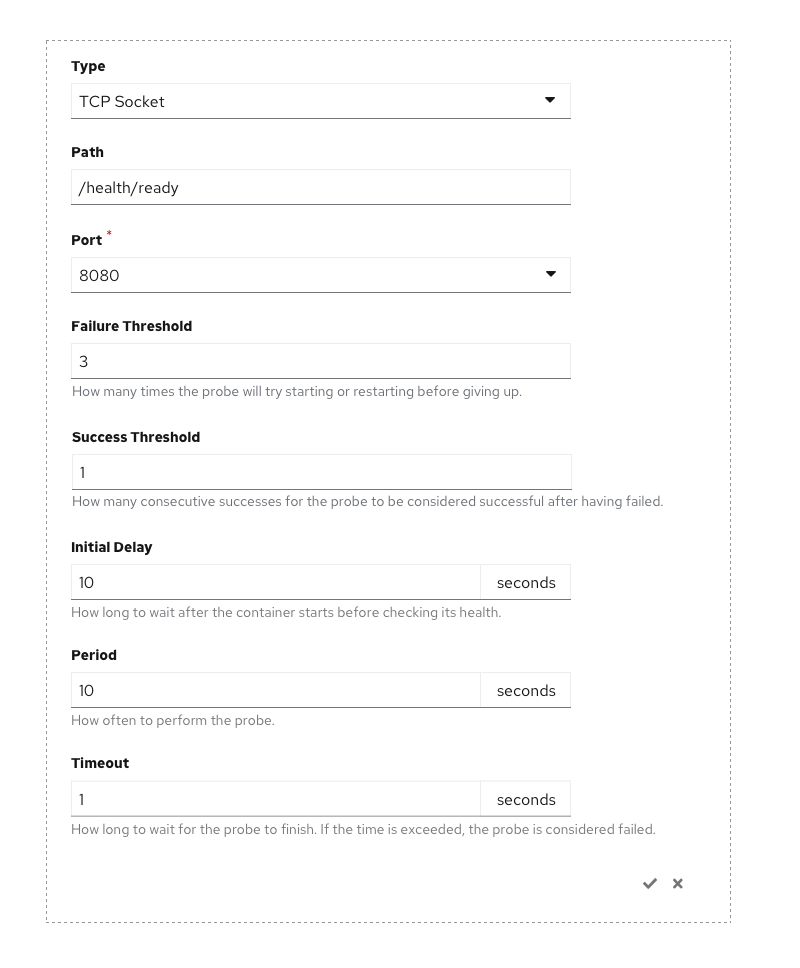
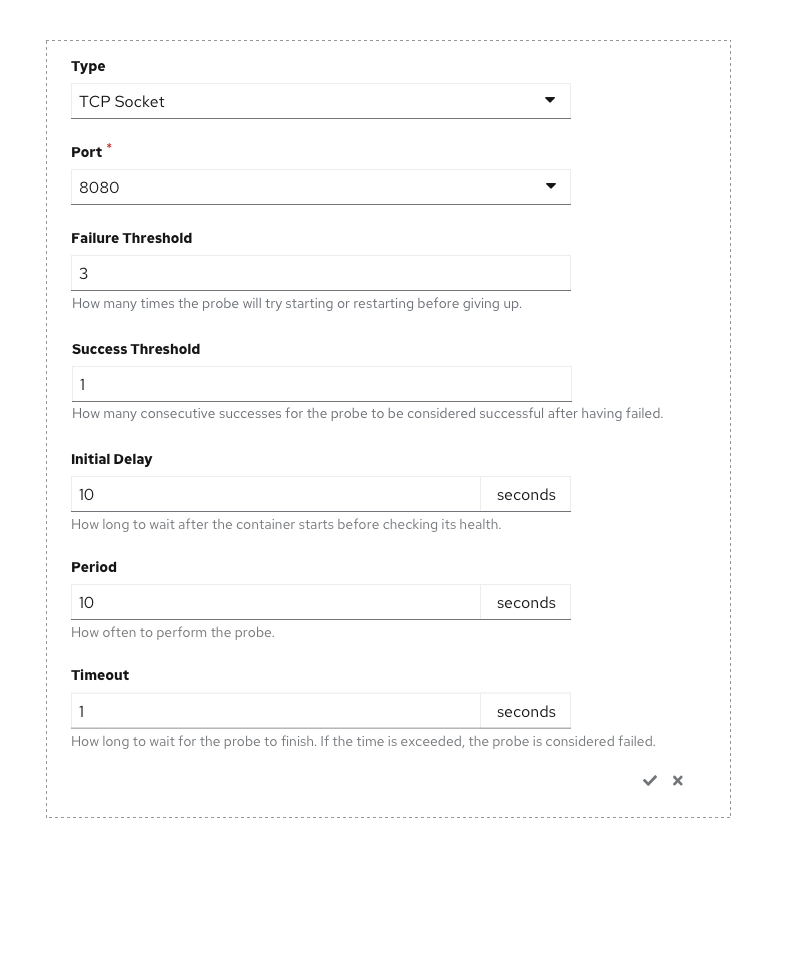
Clarifications in documentation to interaction design for form.

diff --git a/designs/developer/add-45/sections/Adv-Health_Checks.md b/designs/developer/add-45/sections/Adv-Health_Checks.md
@@ -5,67 +5,65 @@ version: 4.5
 
 # Add Flows - Advanced Options - Health Checks
 
-Health Checks is a link within the Advanced Options section for the Import from Git and Deploy Image +Add flows. The Health Checks link goes after the Routing link and before the Build Configuration link in the list of Advanced Options links.
+The ability to add Health Checks is within the Advanced Options section of the Import from Git and Deploy Image Add flows. A Health Checks link appears after the Routing link and before the Build Configuration link in the list of Advanced Options links.
 
 ![Health Checks link](img/Select_Health_Checks.png)
 
-
-When a user clicks on the Health Checks link, the Health Checks section is expanded within the Advanced Options section.
+When a user clicks on the Health Checks link, a Health Checks sub-section is expanded within the Advanced Options section.
 
 ![Health Checks link clicked](img/Select_Health_Checks_2.png)
 
 
-When the Health Checks section is expanded there are 3 probes listed (Readiness, Liveness, and Startup). Each probe type has a + Add \[probe name\] link.
+When the Health Checks sub-section is expanded, there are 3 probes listed (Readiness, Liveness, and Startup). Each probe has a \"Add \<probe name\> Probe\" link which allows the user to create the probe for that type.
 
 ![Health Checks options](img/Select_Add_Probe.png)
 
-When a + Add [probe name] link is clicked, the probe form expands exposing all of the fields associated with the probe.  The user can confirm or cancel the adding of the Health Check using the check or x.  There are 3 variations on the Health Checks form which are based on the Type that is selected. The default probe type is HTTP GET. See the Health Checks In-Line form section below for these variations.
+When the \"Add \<probe name\> Probe" link is clicked, a probe form becomes visible, exposing all of the fields associated with the probe.  The user can confirm or cancel the adding of the Health Check using the check or x at the bottom of the probe form.  There are 3 variations on the Health Checks probe form which are based on the Type that is selected. The default Type is HTTP GET. See the Health Checks Form section below for these variations.
 
 ![Health Checks inline form](img/Add_Probe_Inline_Form_Expands.png)
 
-After the in-line form has been validated and the probe has been added, the form contracts and displays checkmark \[probe name\] Probe. The added probe can be removed after it has been added by clicking on the minus sign. An Edit Probe link can be used to review the entered values.
+If the check is clicked, the probe is added and the form is hidden, displaying a checkmark icon and \"\<probe name\> Probe\". If the x is clicked instead of the checkmark, the form is cleared and hidden. The added probe can be removed after it has been added by clicking on the minus sign icon. An \"Edit Probe\" link can be used to review the entered values.
 
 ![Health Checks added](img/Add_Probe_Added.png)
 
 
 * Required fields shall have a required field indicator. Any required field that is not filled in or any field that has incorrect data shall have a client side error message displayed under the field. Client side field validation shall occur when the field loses focus.
 
-* The probes are created when the Create button is clicked.
+* The probes are created when the Create button is clicked and the form is submitted.
 
-* Server side error messages shall appear at the bottom of the form with the same design as other fields in the form. If a server side error message occurs, the in-line form shall be expanded so that the field with the error is visible.
+* Server side error messages shall appear at the bottom of the form with the same design as other fields in the form. If a server side error message occurs, the probe form shall be made visible so that the field with the error is visible.
 
 
-## Health Check In-Line Forms
-There are three variations on the Health Checks form.
+## Health Checks Probe Form
+The Health Checks form is a form within the Import from Git and Deploy Image forms.
+* All Health Checks forms have Failure Threshold, Success Threshold, Initial Delay, Period, and Timeout fields.
+* However, there are three variations on the Health Checks form that each display different dynamic fields. These variations are outlined below.
+* If the Type is changed after data has been entered in the dynamic fields, the data must persist in any fields that are hidden until the form is submitted.
 
 ### HTTP GET
-* HTTP Get is the default value in the Type dropdown
+* HTTP Get is the default type for Health Check forms.
 * HTTP Headers, Path, and Port are dynamic fields displayed for HTTP GET.
-* If the Type is changed after data has been entered in these form fields and a field is hidden, the data must persist in the hidden field until the form is submitted.
-* Failure Threshold, Success Threshold, Initial Delay, Period, and Timeout fields are always displayed.
 
 ![Health Checks http get](img/FINAL_FORM_HTTP_GET.png)
 
 ### HTTP Get - Knative Services
-* When the Knative Services Resource Type is selected, the port value is 0
+* When the Knative Services Resource Type is selected, the Port value is 0 and the Port dropdown is disabled
+
 
 ![Health Checks http get 2](img/FINAL_FORM_HTTP_GET_Knative.png)
 
 ### Command
-* When the Type is changed to Command, a Command field is displayed.
-* If the Type is changed after data has been entered in these form fields and a field is hidden, the data must persist in the hidden field until the form is submitted.
-* Failure Threshold, Success Threshold, Initial Delay, Period, and Timeout fields are always displayed.
-
-![Health Checks command](img/FINAL_FORM_Container_Command.png)
+* When the Type is changed to Command, the dynamic field changes to Command.
+Mnd.png)
 
 ### TCP Socket
-* When the Type is changed to TCP Socket, a Path and Port field is displayed.
-* If the Type is changed after data has been entered in these form fields and a field is hidden, the data must persist in the hidden field until the form is submitted.
-* Failure Threshold, Success Threshold, Initial Delay, Period, and Timeout fields are always displayed.
+* When the Type is changed to TCP Socket, the dynamic field is Port.
+
 
 ![Health Checks tcp](img/FINAL_FORM_TCP.png)
 
 ### TCP Socket - Knative Services
-* When the Knative Services Resource Type is selected, the port value is 0
+* When the Knative Services Resource Type is selected, the Port value is 0 and the Port dropdown is disabled
+
 
 ![Health Checks tcp 2](img/FINAL_FORM_TCP_Knative.png)
